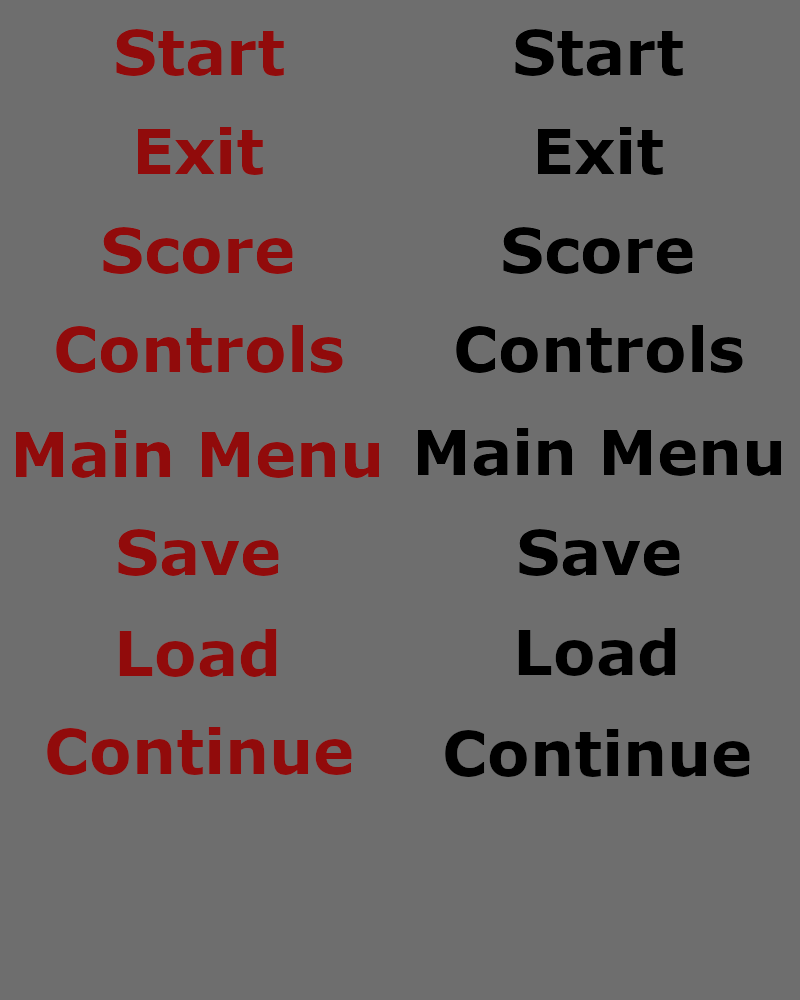
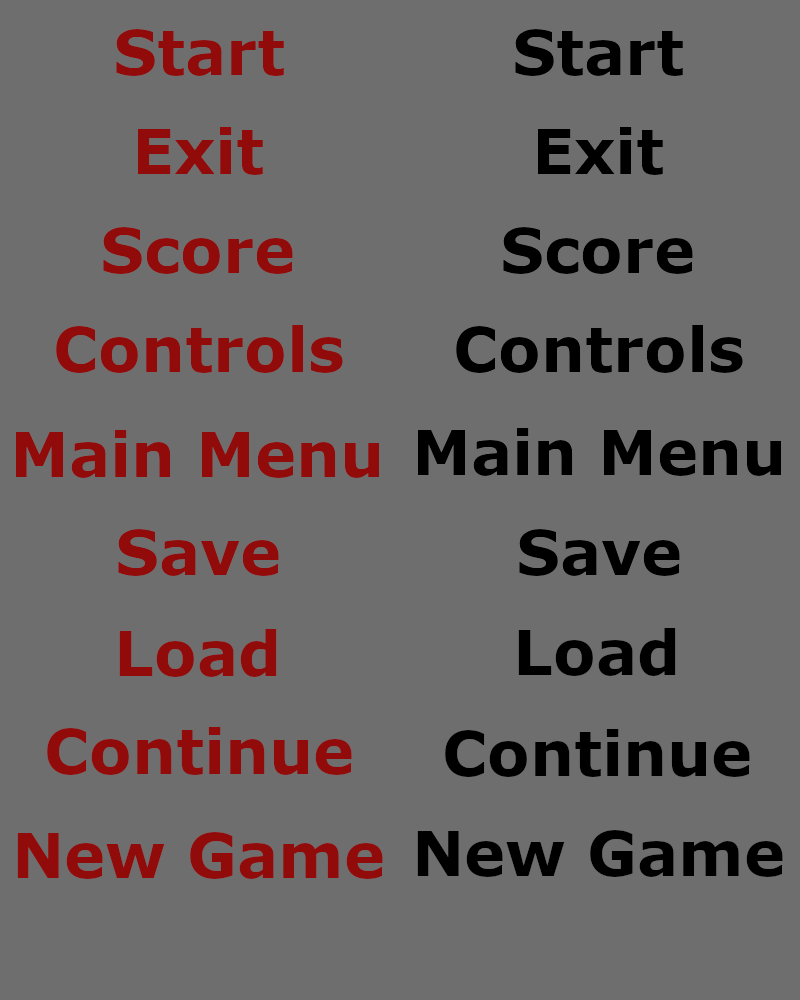
Added Game Over stuff

Changed region(s): [[0.0, 0.806, 1.0, 0.899]]

diff --git a/ProjectFantasyGameConsole/src/UIRenderer.cpp b/ProjectFantasyGameConsole/src/UIRenderer.cpp
@@ -105,7 +105,50 @@ void FantasyGameEngine::UIRenderer::draw_ui()
 		{
 			render_text(m_renderer, { m_width / 2, 5 }, "Controls");
 		}
-		//if()
+		if (selectGameMode) 
+		{
+			FantasyGameEngine::render_image(m_renderer, { 5,5 }, { 150,100 }, m_logo);
+
+			FantasyGameEngine::render_image(m_renderer, title_pos, { 400,200 }, m_title);
+
+			FantasyGameEngine::render_image_sprite_ui(m_renderer, start_button_pos, { 300,75 }, { 0,800 }, { 400,100 }, m_buttons); //New Game
+			FantasyGameEngine::render_image_sprite_ui(m_renderer, score_button_pos, { 300,75 }, { 400,700 }, { 400,100 }, m_buttons); //Continue
+			FantasyGameEngine::render_image_sprite_ui(m_renderer, controls_button_pos, { 300,75 }, { 400,600 }, { 400,100 }, m_buttons); //Load
+			FantasyGameEngine::render_image_sprite_ui(m_renderer, exit_button_pos, { 300,75 }, { 400,400 }, { 400,100 }, m_buttons); //Main Menu
+
+			switch (gamemodebutton)
+			{
+			case 1:
+				FantasyGameEngine::render_image_sprite_ui(m_renderer, start_button_pos, { 300,75 }, { 0,800 }, { 400,100 }, m_buttons); //New Game
+				FantasyGameEngine::render_image_sprite_ui(m_renderer, score_button_pos, { 300,75 }, { 400,700 }, { 400,100 }, m_buttons); //Continue
+				FantasyGameEngine::render_image_sprite_ui(m_renderer, controls_button_pos, { 300,75 }, { 400,600 }, { 400,100 }, m_buttons); //Load
+				FantasyGameEngine::render_image_sprite_ui(m_renderer, exit_button_pos, { 300,75 }, { 400,400 }, { 400,100 }, m_buttons); //Main Menu
+				break;
+			case 2:
+				FantasyGameEngine::render_image_sprite_ui(m_renderer, start_button_pos, { 300,75 }, { 400,800 }, { 400,100 }, m_buttons); //New Game
+				FantasyGameEngine::render_image_sprite_ui(m_renderer, score_button_pos, { 300,75 }, { 0,700 }, { 400,100 }, m_buttons); //Continue
+				FantasyGameEngine::render_image_sprite_ui(m_renderer, controls_button_pos, { 300,75 }, { 400,600 }, { 400,100 }, m_buttons); //Load
+				FantasyGameEngine::render_image_sprite_ui(m_renderer, exit_button_pos, { 300,75 }, { 400,400 }, { 400,100 }, m_buttons); //Main Menu
+				break;
+			case 3:
+				FantasyGameEngine::render_image_sprite_ui(m_renderer, start_button_pos, { 300,75 }, { 400,800 }, { 400,100 }, m_buttons); //New Game
+				FantasyGameEngine::render_image_sprite_ui(m_renderer, score_button_pos, { 300,75 }, { 400,700 }, { 400,100 }, m_buttons); //Continue
+				FantasyGameEngine::render_image_sprite_ui(m_renderer, controls_button_pos, { 300,75 }, { 0,600 }, { 400,100 }, m_buttons); //Load
+				FantasyGameEngine::render_image_sprite_ui(m_renderer, exit_button_pos, { 300,75 }, { 400,400 }, { 400,100 }, m_buttons); //Main Menu
+				break;
+			case 4:
+				FantasyGameEngine::render_image_sprite_ui(m_renderer, start_button_pos, { 300,75 }, { 400,800 }, { 400,100 }, m_buttons); //New Game
+				FantasyGameEngine::render_image_sprite_ui(m_renderer, score_button_pos, { 300,75 }, { 400,700 }, { 400,100 }, m_buttons); //Continue
+				FantasyGameEngine::render_image_sprite_ui(m_renderer, controls_button_pos, { 300,75 }, { 400,600 }, { 400,100 }, m_buttons); //Load
+				FantasyGameEngine::render_image_sprite_ui(m_renderer, exit_button_pos, { 300,75 }, { 0,400 }, { 400,100 }, m_buttons); //Main Menu
+				break;
+			default:
+				FantasyGameEngine::render_image_sprite_ui(m_renderer, start_button_pos, { 300,75 }, { 400,800 }, { 400,100 }, m_buttons); //New Game
+				FantasyGameEngine::render_image_sprite_ui(m_renderer, score_button_pos, { 300,75 }, { 400,700 }, { 400,100 }, m_buttons); //Continue
+				FantasyGameEngine::render_image_sprite_ui(m_renderer, controls_button_pos, { 300,75 }, { 400,600 }, { 400,100 }, m_buttons); //Load
+				FantasyGameEngine::render_image_sprite_ui(m_renderer, exit_button_pos, { 300,75 }, { 400,400 }, { 400,100 }, m_buttons); //Main Menu
+			}
+		}
 	}
 
 }
@@ -125,7 +168,7 @@ void FantasyGameEngine::UIRenderer::HandleInput()
 			switch (menubutton) 
 			{
 			case 1: 
-				isinGame = true; 
+				selectGameMode = true;
 				isinMainMenu = false;
 				break;
 			case 2: 	
@@ -154,6 +197,33 @@ void FantasyGameEngine::UIRenderer::HandleInput()
 			isinMainMenu = true;
 			isinControls = false;
 		}
+		else if (selectGameMode) 
+		{
+			switch (gamemodebutton)
+			{
+			case 1:
+				startnewgame = true;
+				selectGameMode = false;
+				break;
+			case 2:
+				if(Gamestarted)
+				{
+				isinGame = true;
+				selectGameMode = false;
+				}
+				break;
+			case 3:
+				
+				selectGameMode = false;
+				break;
+			case 4:
+				isinMainMenu = true;
+				selectGameMode = false;
+				break;
+			default:
+				gamemodebutton = 1;
+			}
+		}
 			
 	}
 	if (ispaused)
@@ -164,6 +234,11 @@ void FantasyGameEngine::UIRenderer::HandleInput()
 			isinGame = false;
 			isinMainMenu = true;
 		}
+	}
+	if (isenteringName) 
+	{
+		isenteringName = false;
+		nameconfirmed = true;
 	}
 }
 
@@ -235,12 +310,35 @@ void FantasyGameEngine::UIRenderer::draw_pause_menu()
 
 void FantasyGameEngine::UIRenderer::draw_score_ui()
 {
+		render_rect(m_renderer, { 0,0 }, { 1280,720 }, 0, 0, 0, 0.5);
 		playername[index] = 65 + abccounter;
 
 		render_text(m_renderer, { m_width / 2-250,m_height / 2 }, "Enter your name:");
 
 		render_text(m_renderer, { m_width / 2,m_height / 2 }, playername);
 }
+
+void FantasyGameEngine::UIRenderer::handlegameover()
+{
+	isinGame = false;
+	Gamestarted = false;
+	isenteringName = true;
+}
+
+void FantasyGameEngine::UIRenderer::addscore(int score)
+{
+	std::tuple<std::string, int> scoretuple;
+
+	scoretuple = std::make_tuple(playername, score);
+
+	scores.push_back(scoretuple);
+
+	isenteringName = false;
+	nameconfirmed = false;
+	isinMainMenu = true;
+}
+
+
 
 
 

diff --git a/ProjectFantasyGameConsole/src/main.cpp b/ProjectFantasyGameConsole/src/main.cpp
@@ -186,7 +186,10 @@ namespace FantasyGameEngine
         void reset_state()
         {
             tick_timer = 0;
-
+            score = 0;
+            nextpiececolor = 0;
+            holdpiececolor = 0;
+            currentpiececoloroffset = 1 + rand() % 8;
             active_piece = generate_next_piece();
             active_piece_pos = { 5, 0 };
             next_piece = generate_next_piece();
@@ -742,7 +745,11 @@ namespace FantasyGameEngine
             }
            }
            else {
-               game_state.uirenderer.running = false;
+               //game_state.uirenderer.running = false;
+               game_state.uirenderer.isenteringName = true;
+               game_state.uirenderer.isinGame = false;
+               game_state.uirenderer.Gamestarted = false;
+               
            }
         }
         else{
@@ -751,6 +758,11 @@ namespace FantasyGameEngine
                 if (inputs.pressed & FGEKC_w) game_state.uirenderer.menubutton -= 1;
                 if (inputs.pressed & FGEKC_s) game_state.uirenderer.menubutton += 1;
                 game_state.uirenderer.checkbuttonint();
+            }
+            if(game_state.uirenderer.selectGameMode)
+            {
+                if (inputs.pressed & FGEKC_w) game_state.uirenderer.gamemodebutton -= 1;
+                if (inputs.pressed & FGEKC_s) game_state.uirenderer.gamemodebutton += 1;
             }
             if (inputs.pressed & FGEKC_enter) game_state.uirenderer.HandleInput();
         }
@@ -762,8 +774,27 @@ namespace FantasyGameEngine
             if (inputs.down & FGEKC_d) game_state.uirenderer.index += 1;
 
             game_state.uirenderer.checkbuttonint();
+            if (inputs.pressed & FGEKC_enter) game_state.uirenderer.HandleInput();
         }
-       
+        if (game_state.uirenderer.nameconfirmed) game_state.uirenderer.addscore(game_state.score);
+        if (game_state.uirenderer.startnewgame) 
+        {
+            if (game_state.uirenderer.Gamestarted) 
+            {
+                game_state.uirenderer.isinGame = true;
+                game_state.reset_state();
+                game_state.clear_grid();
+                game_state.uirenderer.startnewgame = false;
+                
+            }
+            else 
+            {
+                game_state.uirenderer.isinGame = true;
+                game_state.uirenderer.startnewgame = false;
+                game_state.uirenderer.Gamestarted = true;
+            }
+           
+        }
 
     }
 
@@ -795,8 +826,8 @@ namespace FantasyGameEngine
                 }
             }
         { //render next piece
-        render_text(renderer, { game_state.FieldRenderer.gridoffset.x + 560, game_state.FieldRenderer.gridoffset.y }, "Next Piece");
-        render_rect(renderer, { game_state.FieldRenderer.gridoffset.x + 560,game_state.FieldRenderer.gridoffset.y}, { 150,150 }, 0, 0, 0, 0.5);
+        render_text(renderer, { game_state.FieldRenderer.gridoffset.x + 565, game_state.FieldRenderer.gridoffset.y }, "Next Piece");
+        render_rect(renderer, { game_state.FieldRenderer.gridoffset.x + 565,game_state.FieldRenderer.gridoffset.y}, { 150,150 }, 0, 0, 0, 0.5);
         const auto& piece_orientations = pieces[game_state.next_piece];
         const auto& columns = piece_orientations[0];
         for (std::size_t col_i = 0; col_i < columns.size(); col_i++)
@@ -807,8 +838,8 @@ namespace FantasyGameEngine
                 }
          }
         }
-        render_text(renderer, { game_state.FieldRenderer.gridoffset.x + 560, game_state.FieldRenderer.gridoffset.y + 200 }, "Hold Piece");
-        render_rect(renderer, { game_state.FieldRenderer.gridoffset.x +560,game_state.FieldRenderer.gridoffset.y+200 }, { 150,150 }, 0, 0, 0, 0.5);
+        render_text(renderer, { game_state.FieldRenderer.gridoffset.x + 565, game_state.FieldRenderer.gridoffset.y + 200 }, "Hold Piece");
+        render_rect(renderer, { game_state.FieldRenderer.gridoffset.x + 565,game_state.FieldRenderer.gridoffset.y+200 }, { 150,150 }, 0, 0, 0, 0.5);
         if (game_state.hold_slot != -1)  // render hold piece
         {
             const auto& piece_orientations = pieces[game_state.hold_slot];
@@ -864,6 +895,11 @@ namespace FantasyGameEngine
         if (game_state.uirenderer.ispaused)
         {
             game_state.uirenderer.draw_pause_menu();
+        }
+
+        if (game_state.uirenderer.isenteringName)
+        {
+            game_state.uirenderer.draw_score_ui();
         }
         //game_state.uirenderer.draw_score_ui();
 

diff --git a/ProjectFantasyGameConsole/src/UIRenderer.h b/ProjectFantasyGameConsole/src/UIRenderer.h
@@ -18,8 +18,11 @@ namespace FantasyGameEngine
 		bool isenteringName = false;
 		bool Gamestarted = false;
 		bool selectGameMode = false;
+		bool startnewgame = false;
+		bool nameconfirmed = false;
 		int menubutton = 1;
 		int pausebutton = 1;
+		int gamemodebutton = 1;
 		char playername[5] = "....";
 		int abccounter = 0;
 		int index = 0;
@@ -33,6 +36,8 @@ namespace FantasyGameEngine
 		void checkbuttonint();
 		void draw_pause_menu();
 		void draw_score_ui();
+		void handlegameover();
+		void addscore(int score);
 
 	private:
 		const FGE_Renderer* m_renderer;
